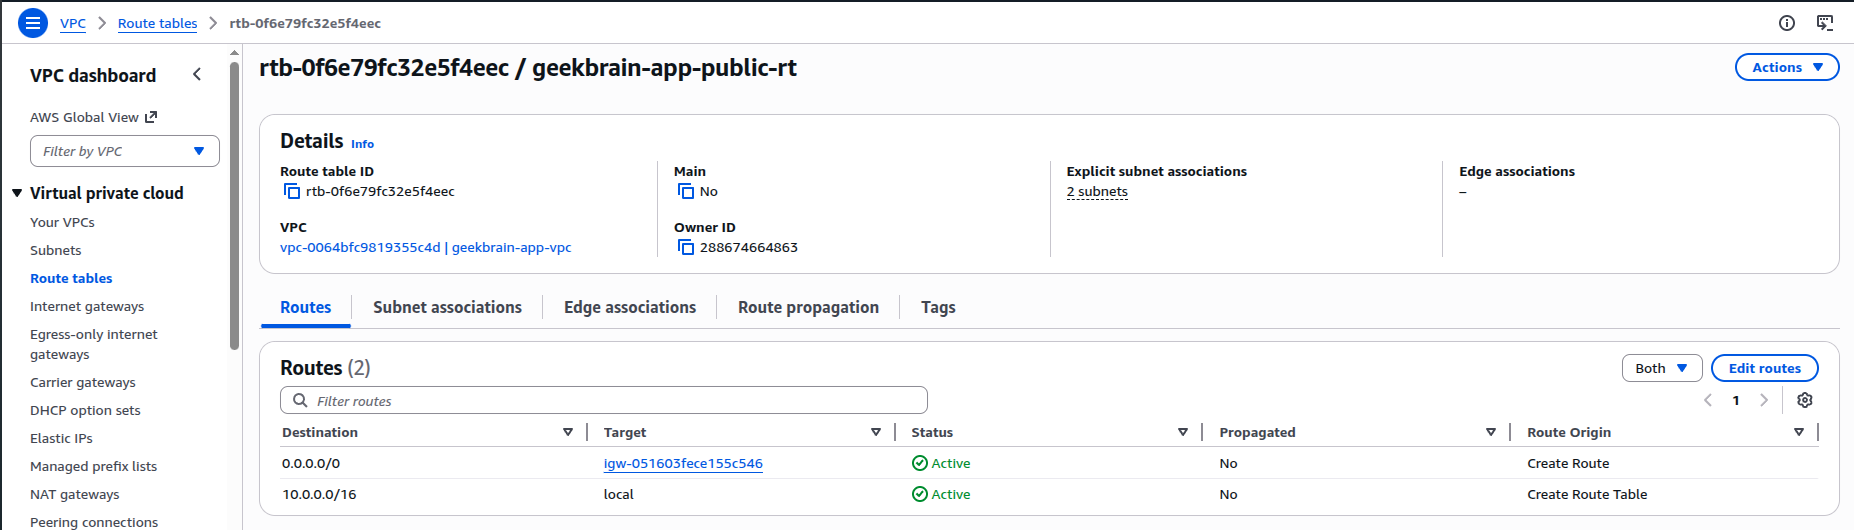
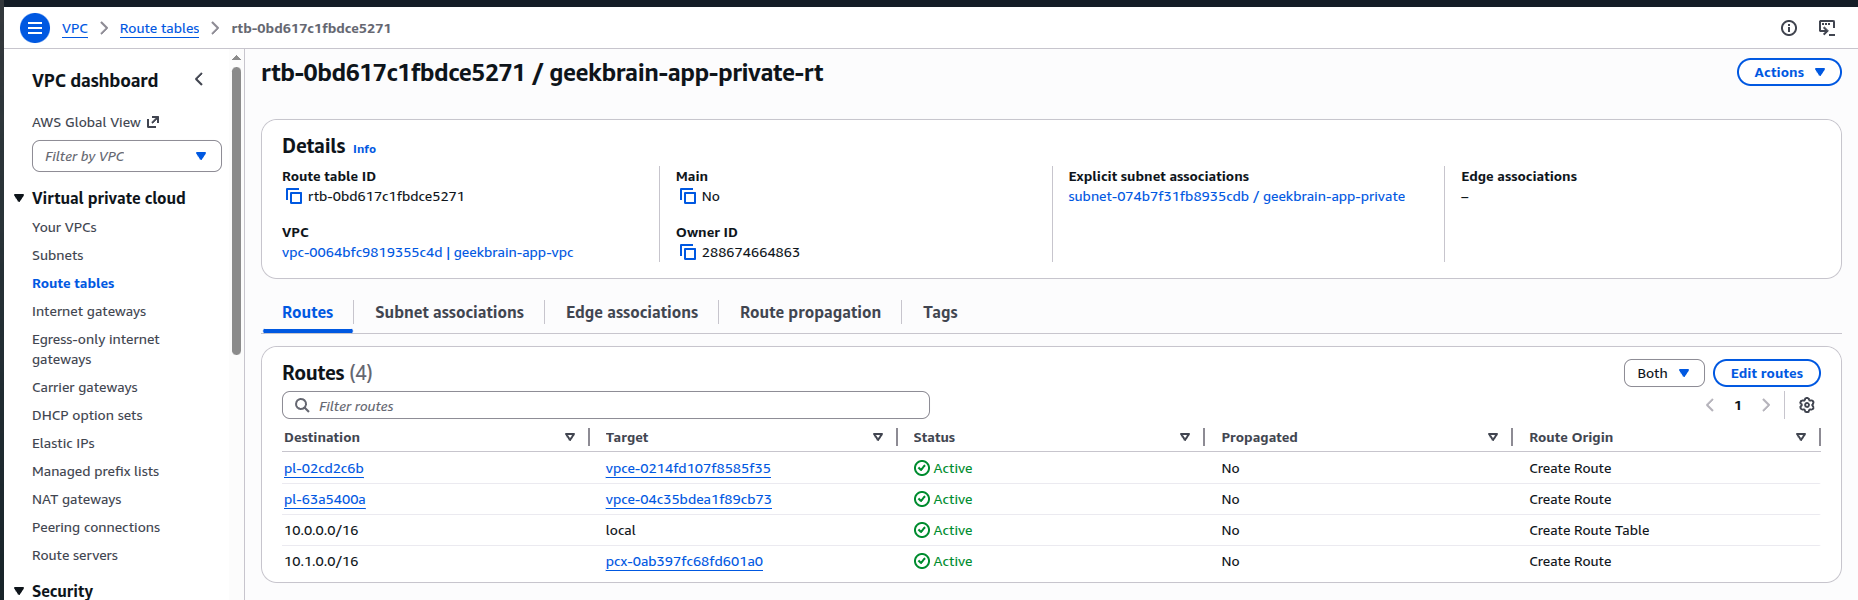
feat: Implement NACL for defense-in-depth on App VPC private subnets and update documentation

diff --git a/w5/docs/W5_evidence.md b/w5/docs/W5_evidence.md
@@ -5,7 +5,7 @@
 | Field | Value |
 |-------|-------|
 | Group | GROUP 5 — XBrain |
-| Members | Dang Nhat Minh |
+| Members | Minh - Quyen- Thuy |
 | Repository | https://github.com/me-dangnhatminh/demo_aws |
 | Prior Week Evidence | [W4: AI Agent with RAG + Tools + Memory](../docs/W4_evidence.md) |
 | Date | 2026-05-15 |
@@ -113,6 +113,18 @@ All 4 Security Groups follow least-privilege. No SG has inbound rules on port 22
 ![Security Groups — descriptions show locked-down access](screenshots/mh2_security_groups.png)
 
 ![EFS SG inbound — NFS (2049) only from App VPC private subnets, no 0.0.0.0/0](screenshots/mh2_sg_inbound.png)
+
+### NACL — Defense-in-Depth on Private Subnets
+
+Custom NACL applied to App VPC private subnets (`10.0.11.0/24`, `10.0.12.0/24`):
+
+| Rule | Action | Protocol | Port | Source | Purpose |
+|------|--------|----------|------|--------|---------|
+| 50 | DENY | TCP | 22 | 0.0.0.0/0 | Block SSH — Fargate has no SSH daemon; prevents lateral movement if SG misconfigured |
+| 51 | DENY | TCP | 3389 | 0.0.0.0/0 | Block RDP — Linux containers, no RDP service |
+| 100 | ALLOW | ALL | ALL | 0.0.0.0/0 | Allow remaining traffic (SGs handle fine-grained filtering) |
+
+![NACL DENY rules — SSH (22) and RDP (3389) explicitly denied on private subnets](screenshots/mh2_nacl_deny.png)
 
 ### Negative Test — Direct ALB Access Blocked
 